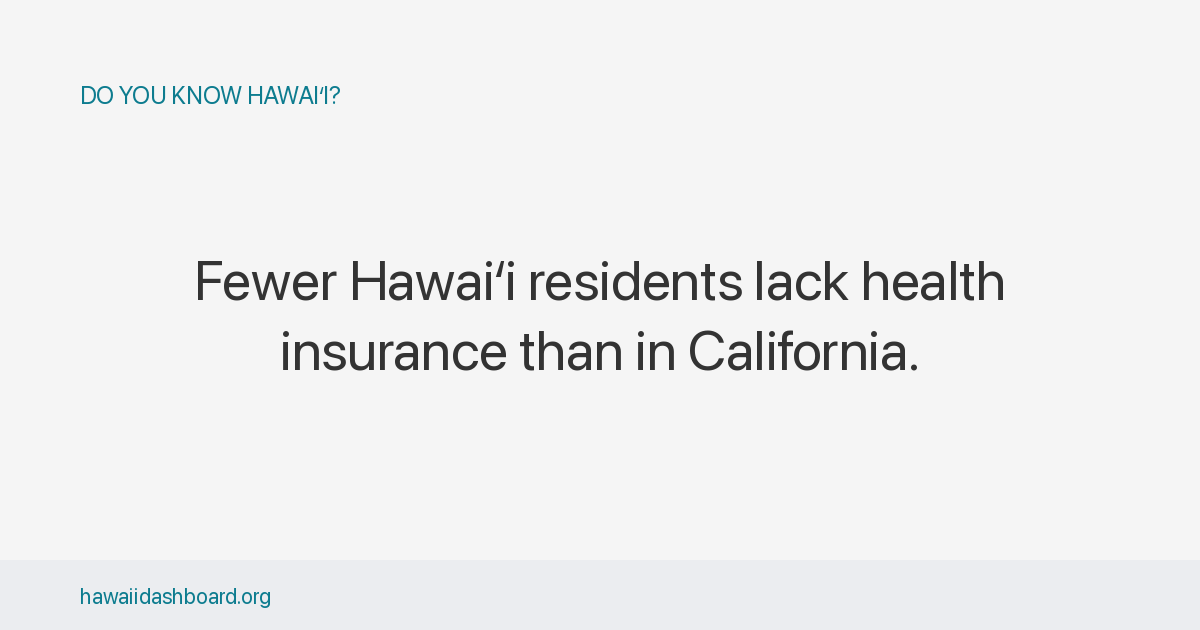
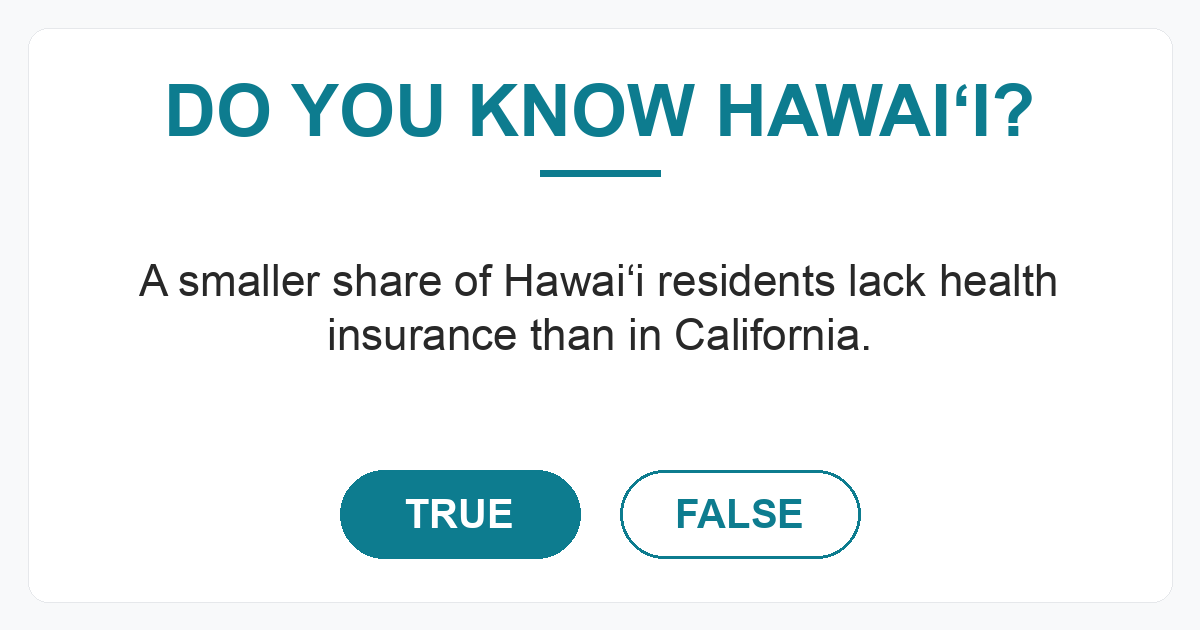
QOTD q003: tighten claim wording + show comparator state on rank-history chart
- "Fewer..." → "A smaller share of..." (count-vs-rate clarity)
- _renderLiveChart now parses /rh/{slug}/{stateAbbr}/ and pre-pins the
  comparator so V7 cross-state proof charts visibly include the second
  state's line on first render.

diff --git a/q/q003/index.html b/q/q003/index.html
@@ -13,7 +13,7 @@
   <meta name="twitter:card" content="summary_large_image">
   <meta name="twitter:title" content="Do you know Hawaiʻi?">
   <meta name="twitter:image" content="https://hawaiidashboard.org/assets/og/q/smaller-share-of-hawaii-residents-lack-health-insurance-than-california.png">
-  <meta name="description" content="Fewer Hawaiʻi residents lack health insurance than in California.">
+  <meta name="description" content="A smaller share of Hawaiʻi residents lack health insurance than in California.">
   <link rel="canonical" href="https://hawaiidashboard.org/q/q003/">
   <script>window.location.replace("/?from_q=q003");</script>
   <meta http-equiv="refresh" content="0;url=https://hawaiidashboard.org/?from_q=q003">
@@ -22,7 +22,7 @@
   <p>Redirecting to <a href="https://hawaiidashboard.org/?from_q=q003">Do you know Hawaiʻi?</a>&hellip;</p>
   <article style="max-width:640px;margin:2rem auto;padding:0 1rem;font-family:-apple-system,BlinkMacSystemFont,'Segoe UI',sans-serif;color:#333;line-height:1.55;">
     <p style="color:#888;font-size:0.875rem;text-transform:uppercase;letter-spacing:0.05em;margin:0;">Do you know Hawaiʻi?</p>
-    <p style="margin:0.25rem 0 1rem;font-size:1.25rem;font-weight:600;">Fewer Hawaiʻi residents lack health insurance than in California.</p>
+    <p style="margin:0.25rem 0 1rem;font-size:1.25rem;font-weight:600;">A smaller share of Hawaiʻi residents lack health insurance than in California.</p>
     <p><strong>True.</strong> In 2024, 3.5% of Hawaiʻi residents lacked health insurance, versus 5.9% of Californians.</p>
     <p style="margin-top:1.5rem;"><a href="/rh/uninsured_rate/ca/">See the data &rarr;</a></p>
   </article>

diff --git a/js/qotd.js b/js/qotd.js
@@ -214,7 +214,11 @@ const QOTD = {
                 if (!rankHistory) return this._fallbackOgImage(fig, q);
                 const hiYears = Object.keys(metricData.hawaii || {}).sort();
                 const govBoxes = App.getGovernorBoxes(hiYears);
-                ChartUtils.createRankHistoryChart(canvas, rankHistory, metricData, govBoxes, () => {}, null);
+                const compareMatch = q.chartUrl.match(/^\/rh\/[^/]+\/([^/]+)\/?$/);
+                const initialCompare = (compareMatch && typeof Router !== 'undefined')
+                    ? Router.slugToState(compareMatch[1])
+                    : null;
+                ChartUtils.createRankHistoryChart(canvas, rankHistory, metricData, govBoxes, () => {}, initialCompare);
                 return;
             }
             return this._fallbackOgImage(fig, q);

diff --git a/js/questions.js b/js/questions.js
@@ -249,7 +249,7 @@ const QOTD_QUESTIONS = [
   {
     "id": "q003",
     "slug": "smaller-share-of-hawaii-residents-lack-health-insurance-than-california",
-    "claim": "Fewer Hawaiʻi residents lack health insurance than in California.",
+    "claim": "A smaller share of Hawaiʻi residents lack health insurance than in California.",
     "correct": true,
     "answer": "In 2024, 3.5% of Hawaiʻi residents lacked health insurance, versus 5.9% of Californians.",
     "chartUrl": "/rh/uninsured_rate/ca/",
